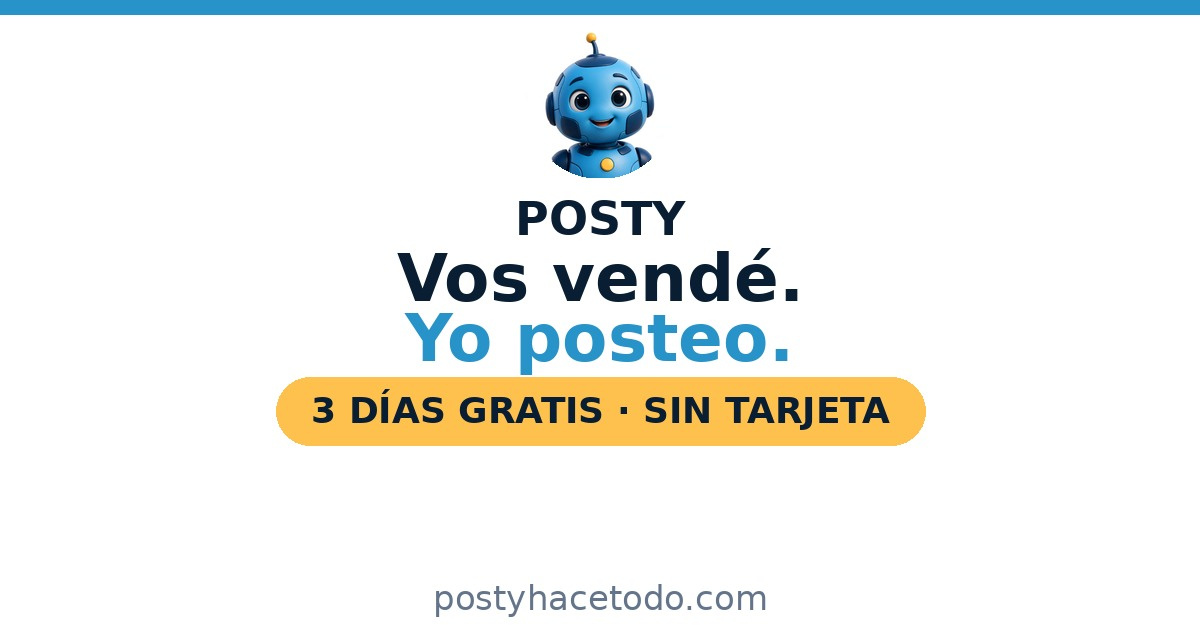
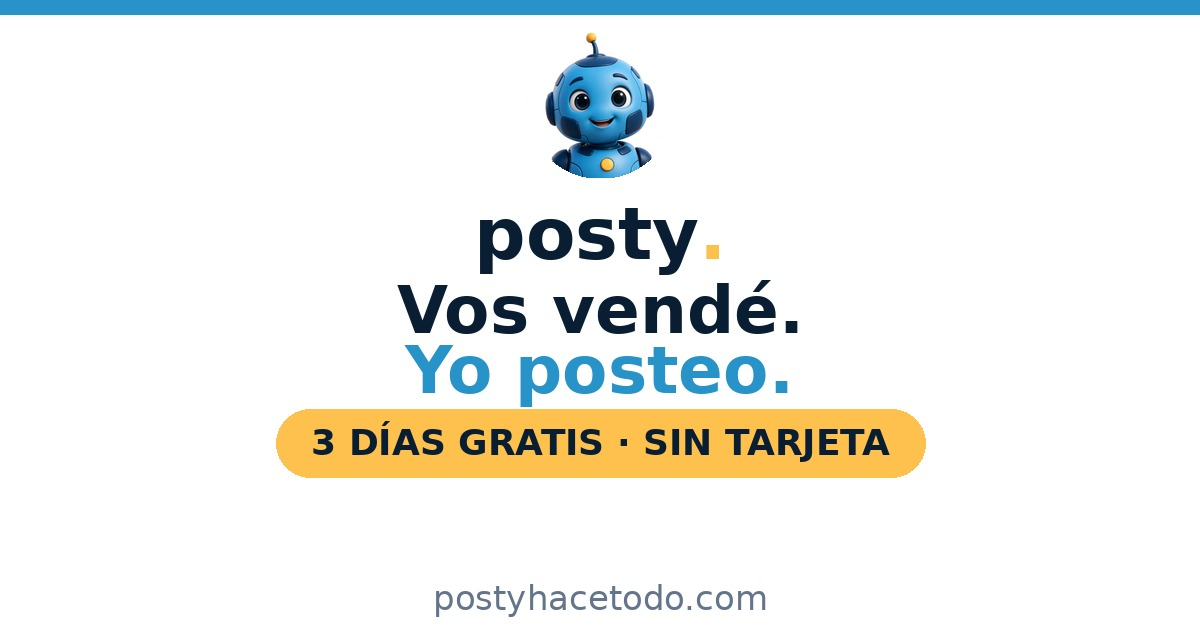
Add files via upload

Changed region(s): [[0.2158, 0.3016, 0.7708, 0.7841]]

diff --git a/public/app.js b/public/app.js
@@ -363,7 +363,7 @@ function landingView(cfg) {
   return `
   ${pzRefBandHTML()}
   <div class="nav nav-landing"><div class="wrap">
-    <a class="logo logo-posty" href="#/"><img src="ai-avatar.png" alt="Posty">Posty</a>
+    <a class="logo logo-posty" href="#/"><img src="ai-avatar.png" alt="posty.">posty<span class="pdot">.</span></a>
     <div class="nav-links">
       <a href="#como-funciona">Cómo funciona</a>
       <a href="#incluye">Qué incluye</a>
@@ -546,7 +546,7 @@ function landingView(cfg) {
     </div>
   </div></div>
   <div class="footer"><div class="wrap">
-    <span class="logo logo-posty" style="font-size:17.5px"><img src="ai-avatar.png" alt="Posty">Posty</span>
+    <span class="logo logo-posty" style="font-size:17.5px"><img src="ai-avatar.png" alt="posty.">posty<span class="pdot">.</span></span>
     <span>Un producto de Posta · Hecho en Argentina 🇦🇷 · © 2026</span>
     <span style="margin-left:12px"><a href="/privacidad.html" style="color:var(--sky)">Privacidad</a> · <a href="/terminos.html" style="color:var(--sky)">Términos</a></span>
   </div></div>
@@ -558,7 +558,7 @@ function authView(mode) {
   const isLogin = mode === 'login';
   return `
   <div class="nav"><div class="wrap">
-    <a class="logo logo-posty" href="#/"><img src="ai-avatar.png" alt="Posty">Posty</a>
+    <a class="logo logo-posty" href="#/"><img src="ai-avatar.png" alt="posty.">posty<span class="pdot">.</span></a>
     <div class="nav-links"><a href="#/${isLogin ? 'registro' : 'login'}">${isLogin ? 'Crear cuenta' : 'Entrar'}</a></div>
   </div></div>
   <div class="wrap"><div class="form-card">
@@ -569,8 +569,40 @@ function authView(mode) {
     <div class="field"><label>Contraseña</label><input id="f_pass" type="password" placeholder="Mínimo 6 caracteres"${isLogin ? ' autocomplete="current-password"' : ' autocomplete="new-password" readonly onfocus="this.removeAttribute(\'readonly\')"'}></div>
     <button class="btn btn-primary btn-block" id="btnAuth">${isLogin ? 'Entrar' : 'Crear cuenta'}</button>
     <p style="text-align:center;margin-top:18px;font-size:12.5px;color:var(--dim)">
-      ${isLogin ? '¿No tenés cuenta? <a href="#/registro" style="color:var(--cel)">Registrate</a>' : '¿Ya tenés cuenta? <a href="#/login" style="color:var(--cel)">Entrá</a>'}
+      ${isLogin ? '¿No tenés cuenta? <a href="#/registro" style="color:var(--cel)">Registrate</a> · <a href="#/forgot" style="color:var(--cel)">Olvidé mi contraseña</a>' : '¿Ya tenés cuenta? <a href="#/login" style="color:var(--cel)">Entrá</a>'}
     </p>
+  </div></div>`;
+}
+
+function forgotView() {
+  return `
+  <div class="nav"><div class="wrap">
+    <a class="logo logo-posty" href="#/"><img src="ai-avatar.png" alt="posty.">posty<span class="pdot">.</span></a>
+    <div class="nav-links"><a href="#/login">Entrar</a></div>
+  </div></div>
+  <div class="wrap"><div class="form-card">
+    <h2>Recuperá tu contraseña 🔑</h2>
+    <p class="sub">Te mando un link a tu email para elegir una nueva.</p>
+    <div id="forgotMsg"></div>
+    <div class="field"><label>Email</label><input id="f_email" type="email" placeholder="vos@tunegocio.com" autocomplete="email" style="font-size:16px"></div>
+    <button class="btn btn-primary btn-block" id="btnForgot">Mandame el link</button>
+    <p style="text-align:center;margin-top:18px;font-size:12.5px;color:var(--dim)">
+      <a href="#/login" style="color:var(--cel)">Volver a entrar</a>
+    </p>
+  </div></div>`;
+}
+
+function resetView() {
+  return `
+  <div class="nav"><div class="wrap">
+    <a class="logo logo-posty" href="#/"><img src="ai-avatar.png" alt="posty.">posty<span class="pdot">.</span></a>
+  </div></div>
+  <div class="wrap"><div class="form-card">
+    <h2>Elegí tu nueva contraseña 🔑</h2>
+    <p class="sub">Que sea de 6 caracteres como mínimo.</p>
+    <div id="resetMsg"></div>
+    <div class="field"><label>Nueva contraseña</label><input id="f_pass" type="password" placeholder="Mínimo 6 caracteres" autocomplete="new-password" style="font-size:16px"></div>
+    <button class="btn btn-primary btn-block" id="btnReset">Guardar y entrar</button>
   </div></div>`;
 }
 
@@ -6725,6 +6757,37 @@ async function render() {
       } catch (e) {
         const dup = /ya está registrado/i.test(e.message || '');
         $('#formErr').innerHTML = `<div class="err">${dup ? `Ese email ya tiene cuenta. ¿Eras vos? <a href="#/login" style="color:var(--cel);font-weight:700">Entrá</a>` : esc(e.message)}</div>`;
+      }
+    };
+    return;
+  }
+  if (path === '#/forgot') {
+    LANDING_ON = false;
+    root.innerHTML = forgotView();
+    $('#btnForgot').onclick = async () => {
+      const email = ($('#f_email').value || '').trim();
+      if (!email) { $('#forgotMsg').innerHTML = `<div class="err">Escribí tu email 📧</div>`; return; }
+      try {
+        await api.post('/api/auth/forgot', { email });
+        $('#forgotMsg').innerHTML = `<div class="ok-msg">¡Listo! 📬 Si ese email tiene cuenta, ya te mandé el link para cambiar tu contraseña. Revisá tu casilla (y el spam).</div>`;
+      } catch (e) {
+        $('#forgotMsg').innerHTML = `<div class="err">${esc(e.message)}</div>`;
+      }
+    };
+    return;
+  }
+  if (path.startsWith('#/reset')) {
+    const token = new URLSearchParams((location.hash.split('?')[1] || '')).get('token') || '';
+    LANDING_ON = false;
+    root.innerHTML = resetView();
+    $('#btnReset').onclick = async () => {
+      const password = $('#f_pass').value || '';
+      try {
+        await api.post('/api/auth/reset', { token, password });
+        await refreshSession();
+        postAuthLanding();
+      } catch (e) {
+        $('#resetMsg').innerHTML = `<div class="err">${esc(e.message)}</div>`;
       }
     };
     return;

diff --git a/public/styles.css b/public/styles.css
@@ -64,6 +64,7 @@ button{font-family:inherit}
 .hero::before{content:"";position:absolute;top:-220px;left:50%;transform:translateX(-50%);width:860px;height:520px;background:radial-gradient(ellipse,rgba(39,147,200,.12),transparent 70%);pointer-events:none}
 .pill{display:inline-block;background:#F2F9FD;border:1px solid #CFE7F5;border-radius:999px;padding:8px 18px;font-size:11.5px;font-weight:700;color:var(--cel);margin-bottom:26px}
 .logo-posty{display:inline-flex;align-items:center;text-decoration:none}
+.logo-posty .pdot{color:#FEC14D}
 .logo-posty img{width:32px;height:32px;border-radius:50%;object-fit:cover;margin-right:9px;box-shadow:0 2px 8px rgba(39,147,200,.3)}
 .hero-posty{width:136px;height:136px;border-radius:50%;object-fit:cover;display:block;margin:0 auto 20px;border:5px solid #fff;box-shadow:0 14px 36px rgba(39,147,200,.35)}
 .hero-co{margin-top:10px;font-size:12px;color:var(--dim)}
@@ -166,6 +167,7 @@ details.int-advanced[open] summary::after{transform:rotate(90deg)}
 .field input[type="color"]{padding:4px;cursor:pointer}
 .field input[type="datetime-local"]{font-weight:600}
 .err{background:rgba(239,68,68,.06);border:1px solid rgba(239,68,68,.3);color:var(--red-d);border-radius:14px;padding:12px 16px;font-size:12.5px;margin-bottom:18px;line-height:1.5}
+.ok-msg{background:rgba(39,147,200,.07);border:1px solid rgba(39,147,200,.35);color:#0A1E33;border-radius:14px;padding:12px 16px;font-size:13px;margin-bottom:18px;line-height:1.55}
 .okmsg{background:rgba(34,197,94,.08);border:1px solid rgba(34,197,94,.3);color:var(--green-d);border-radius:14px;padding:12px 16px;font-size:12.5px;margin-bottom:18px;line-height:1.5}
 
 /* ============================================================

diff --git a/public/prueba.html b/public/prueba.html
@@ -288,6 +288,7 @@ body{font-family:Montserrat,system-ui,sans-serif;background:var(--bg);color:var(
 /* POSTY protagonista */
 html{scroll-behavior:smooth}
 .logo-posty{display:inline-flex;align-items:center;gap:9px;font-weight:900;font-size:22px;color:var(--navy);text-decoration:none}
+.logo-posty .pdot{color:#FEC14D}
 .logo-posty img{width:34px;height:34px;border-radius:50%;box-shadow:0 3px 10px rgba(39,147,200,.35)}
 #formCard{scroll-margin-top:76px}
 .hero .cta-row{margin-top:22px}
@@ -309,7 +310,7 @@ html{scroll-behavior:smooth}
 </head>
 <body>
 <div class="nav"><div class="wrap">
-  <a class="logo-posty" href="/"><img src="ai-avatar.png" alt="Posty">Posty</a>
+  <a class="logo-posty" href="/"><img src="ai-avatar.png" alt="posty.">posty<span class="pdot">.</span></a>
   <span class="pill">PRUEBA GRATIS · UNA SOLA VEZ</span>
 </div></div>
 

diff --git a/public/index.html b/public/index.html
@@ -21,11 +21,11 @@
 <link rel="preconnect" href="https://fonts.googleapis.com">
 <link rel="preconnect" href="https://fonts.gstatic.com" crossorigin>
 <link href="https://fonts.googleapis.com/css2?family=Montserrat:wght@400;600;700;800&display=swap" rel="stylesheet">
-<link rel="stylesheet" href="/styles.css?v=20260929muse13">
+<link rel="stylesheet" href="/styles.css?v=20260929muse15">
 </head>
 <body>
 <div id="app"></div>
-<script src="/app.js?v=20260929muse13"></script>
+<script src="/app.js?v=20260929muse15"></script>
 <script>
 if ('serviceWorker' in navigator) {
   window.addEventListener('load', function () {
